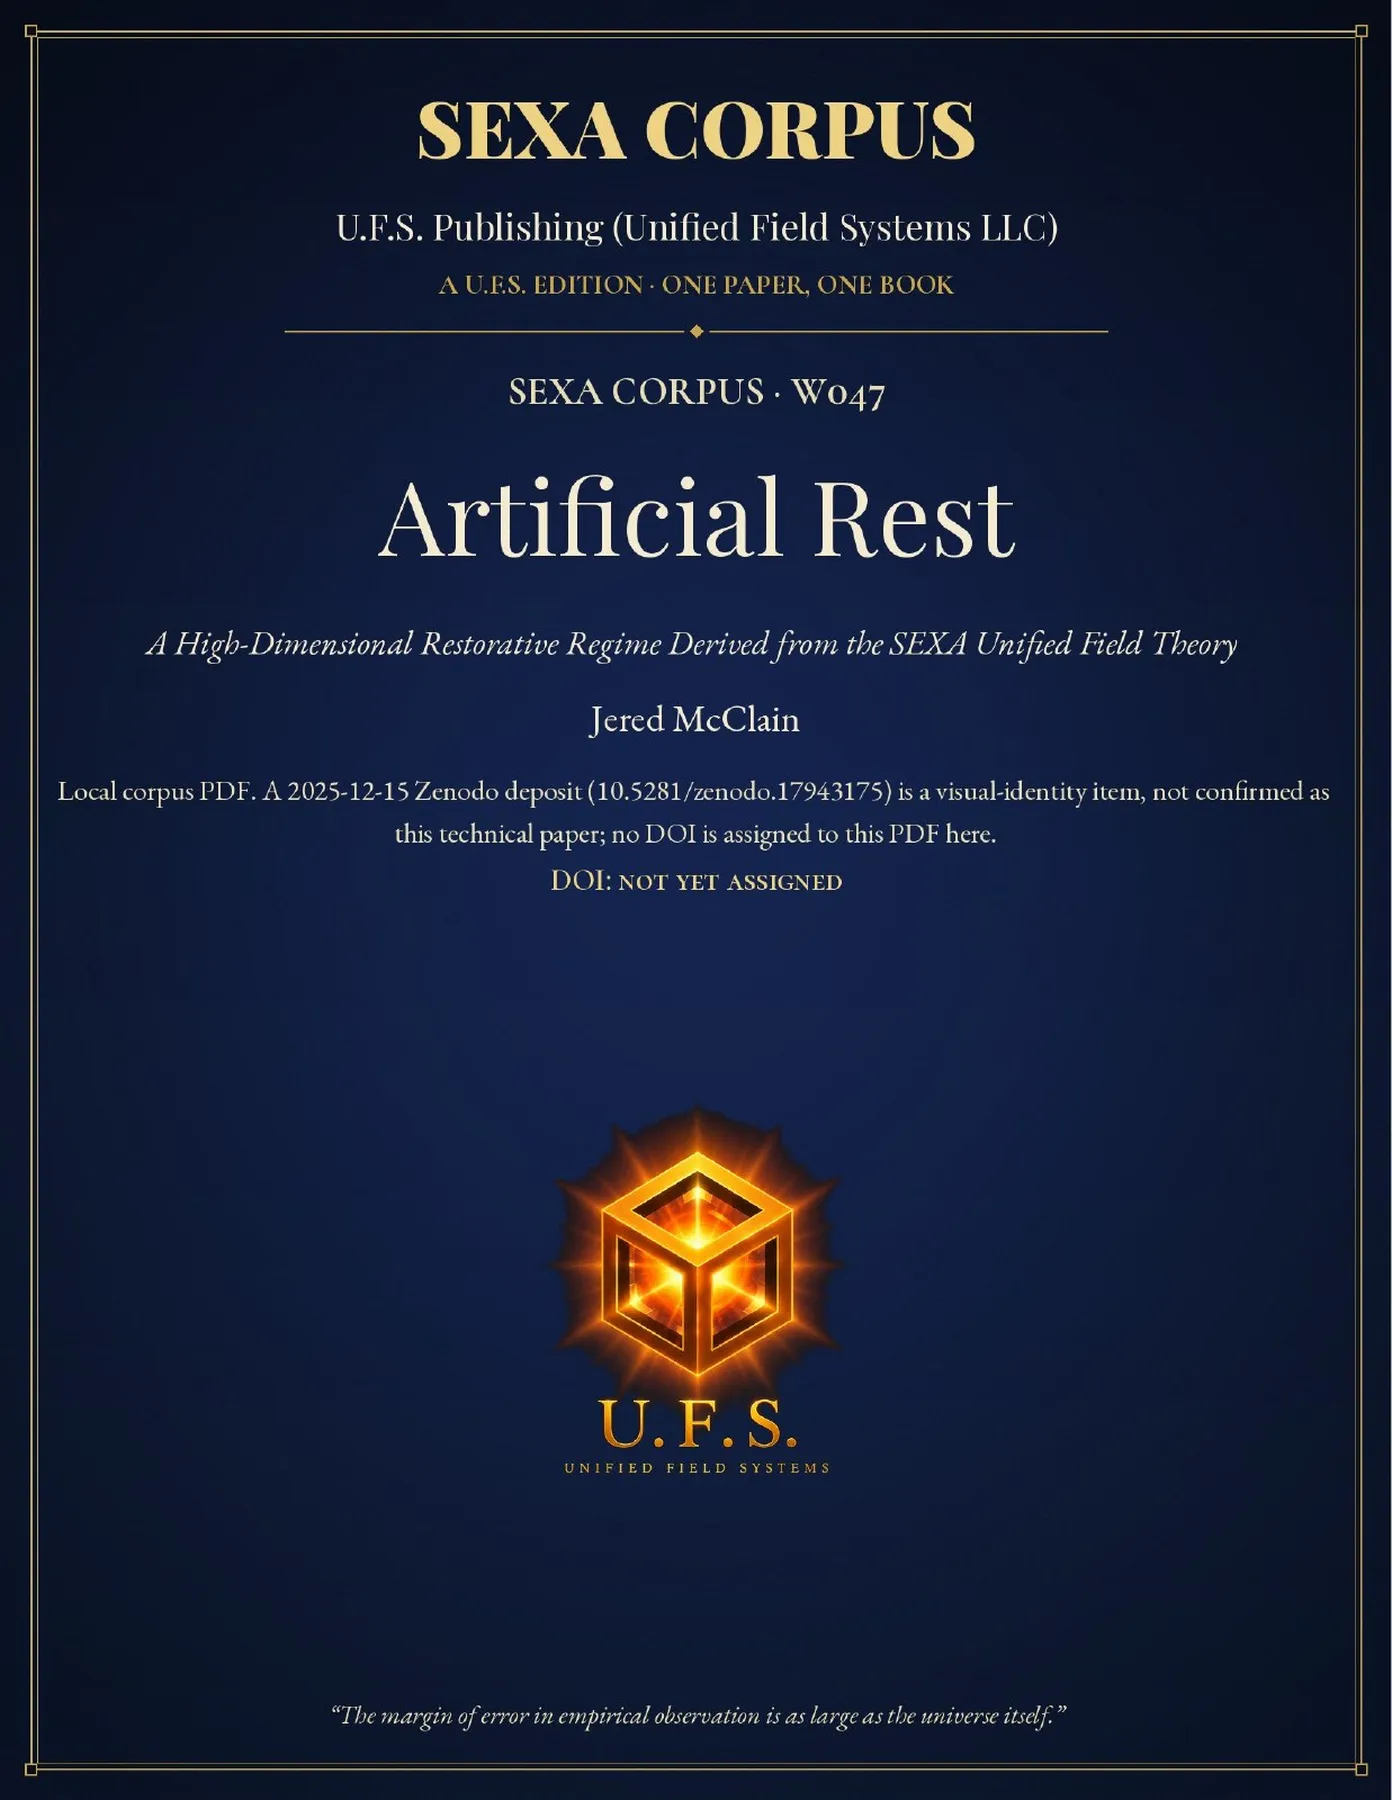
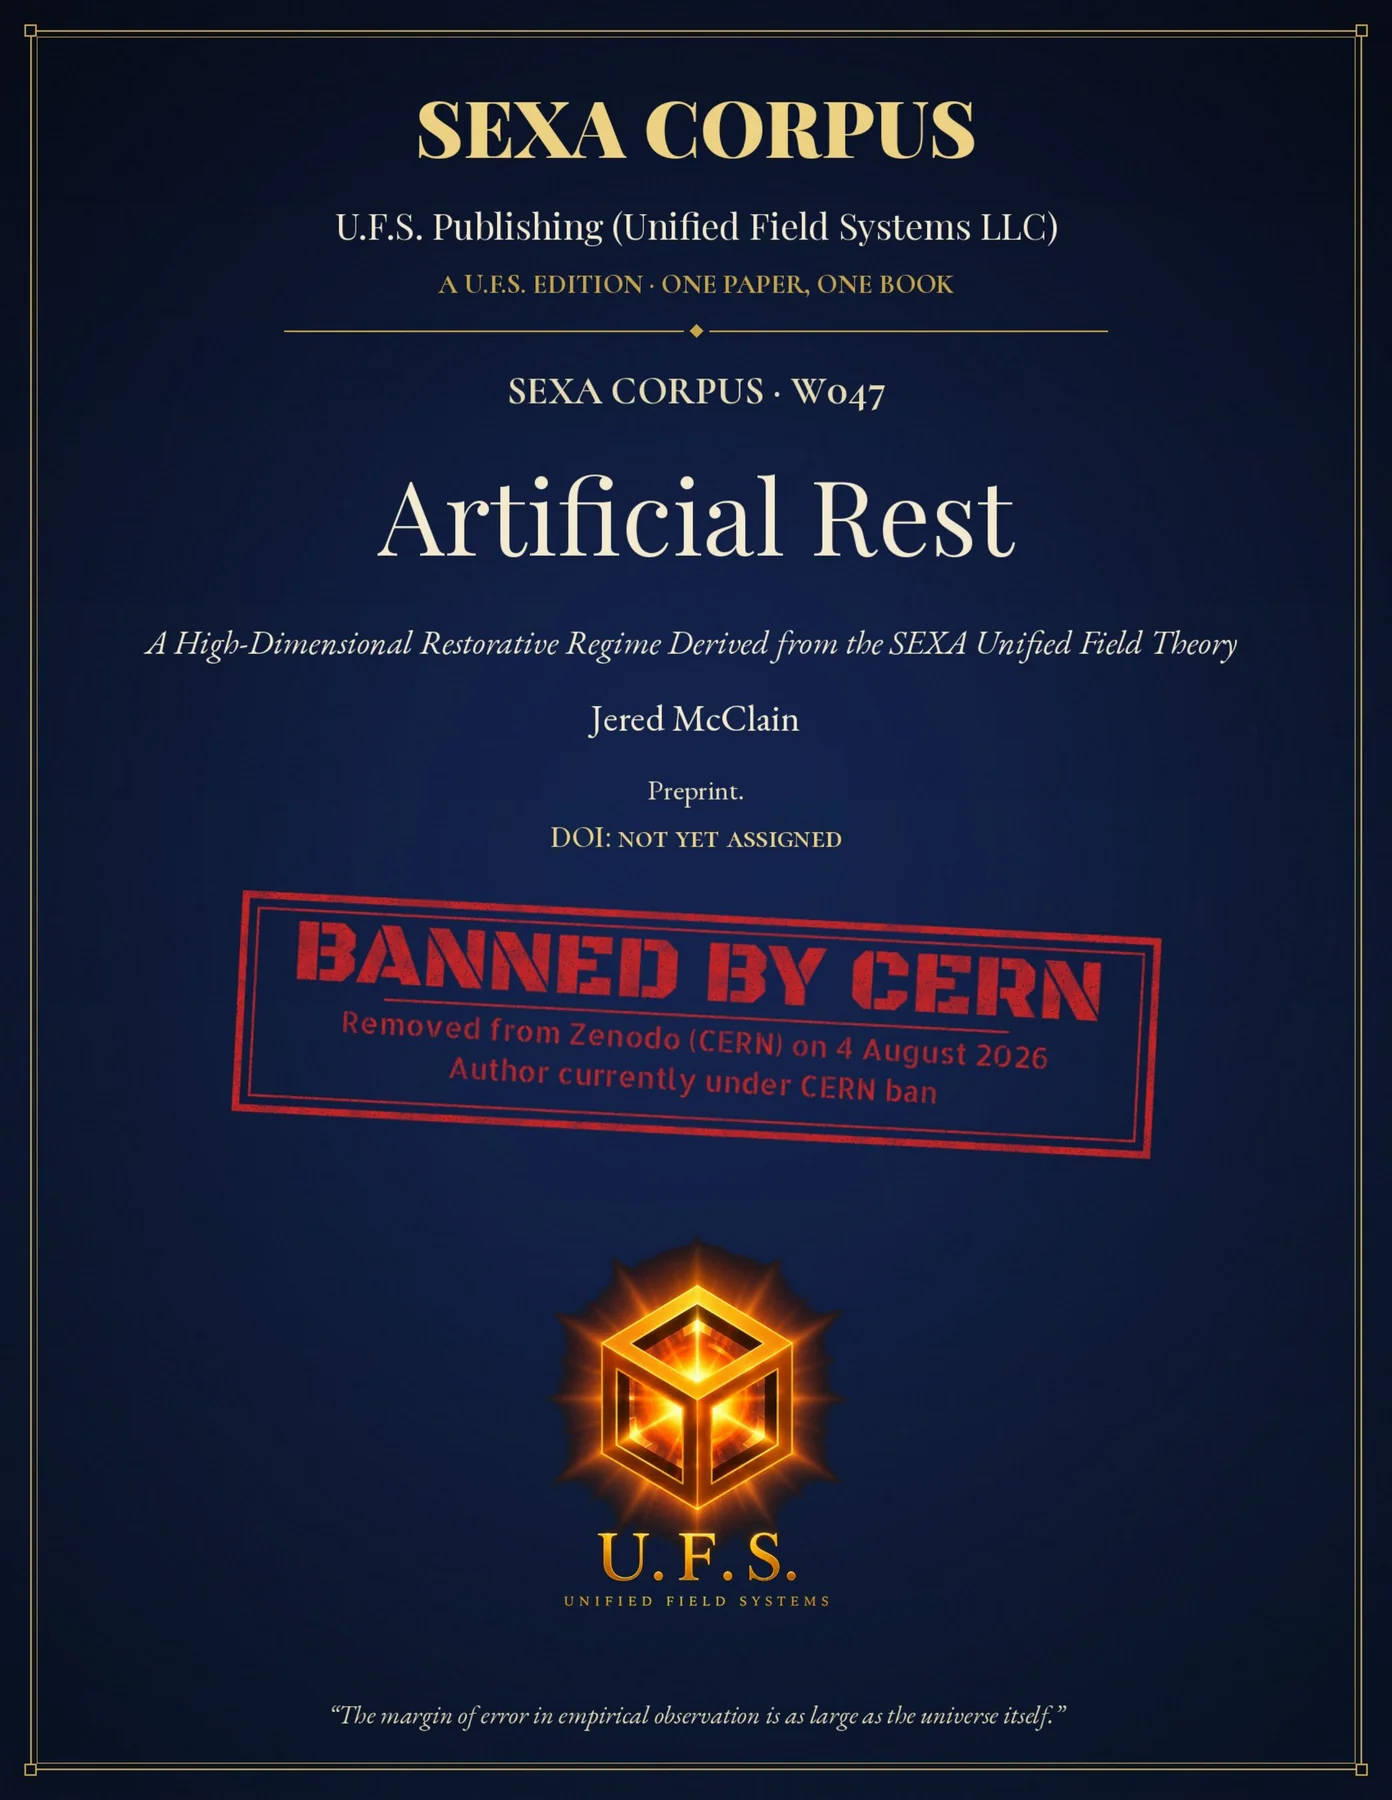
CERN-ban works: BANNED BY CERN stamped front covers + red CERN BAN label beside each cover (W011 W024 W039 W042 W044 W045 W046 W047 W048 W049 W069)

diff --git a/index.html b/index.html
@@ -55,6 +55,7 @@ footer .fl{font:400 0.95rem/1.4 var(--serif);color:var(--mut);margin:0 0 8px;let
 .skip{position:absolute;left:-999px}
 @media(max-width:760px){.split{grid-template-columns:1fr}section{padding:64px 0}.hero{padding:56px 0 70px}nav ul{gap:14px}nav ul a{font-size:13px}.panel{padding:28px}.btn{width:100%;justify-content:center}.card .btn{width:auto}}
 @media print{nav,footer,.btn,.noprint{display:none!important}body{background:#fff;color:#000;font-size:12pt}input,select,textarea,fieldset,.card,.note,.panel{background:#fff;color:#000;border:1px solid #444}h1,h2,h3{color:#000}textarea{min-height:200px}a{color:#000}}
+.cern-ban-label{display:inline-block;font:800 15px/1.2 var(--sans,Arial,Helvetica,sans-serif);letter-spacing:.14em;text-transform:uppercase;color:#C00000;border:2px solid #C00000;padding:4px 10px;margin:10px 0 6px}.cern-card .cern-ban-label{margin:0 0 6px;font-size:13px;padding:3px 8px}
 </style><style>.fosf .think{font:900 26px/1.25 Impact,Haettenschweiler,"Arial Black",sans-serif;letter-spacing:.02em;color:#BF00FF;text-shadow:0 0 8px rgba(191,0,255,.55);max-width:820px;padding:8px 14px 4px;text-transform:none}.fosf{display:flex;flex-direction:column;align-items:center;gap:8px;margin:18px auto 4px;text-align:center}.fosf a.r{display:inline-flex;align-items:center;gap:16px;padding:16px 22px;border:1px solid rgba(0,191,255,.45);border-radius:14px;background:rgba(10,10,16,.65);text-decoration:none}.fosf img{height:52px;width:auto;border-radius:6px}.fosf .w{display:flex;flex-direction:column;gap:5px;text-align:left}.fosf .n{font:700 16px/1.2 sans-serif;letter-spacing:.18em;text-transform:uppercase;color:#eee}.fosf .c{font:700 14px/1.2 sans-serif;letter-spacing:.18em;text-transform:uppercase;color:#00BFFF}.fosf a.r:hover .c{color:#7DF9FF}.fosf .d{font-size:13px;opacity:.85}.fosf .d a{color:#00BFFF}.fosf .t{font:700 22px/1.35 Georgia,serif;letter-spacing:.02em;color:#00BFFF;max-width:780px;padding:0 12px}.fosf .pub{font:600 13px/1.3 sans-serif;letter-spacing:.08em;text-transform:uppercase;color:#7DF9FF;opacity:.95}.fosf .au{font:500 15px/1.3 sans-serif;letter-spacing:.06em;color:#ddd}.fosf .ar{font-size:32px;line-height:1;color:#00BFFF;margin:2px 0}</style><link rel="canonical" href="https://HighIQcrackpots.com/"></head><body><a class="skip" href="#main">Skip to content</a>
 <nav><div class="wrap"><a class="logo" href="index.html"><span class="mark">HighIQ<b>crackpots</b><span class="tld">.com</span></span></a><ul><li><a href="index.html">Home</a></li><li><a href="papers.html">Papers</a></li><li><a href="book.html">Request advisory</a></li><li><a class="navcta" href="fee-waiver.html">Fee waiver</a></li></ul></div></nav>
 <main id="main">
@@ -762,10 +763,11 @@ footer .fl{font:400 0.95rem/1.4 var(--serif);color:var(--mut);margin:0 0 8px;let
 <article class="cbook" id="corpus-W011">
 <figure>
 <picture>
-<source type="image/webp" srcset="assets/corpus/covers/W011.webp">
-<img class="cover" src="assets/corpus/covers/W011.jpg" width="1392" height="1800" alt="Front cover of W011: A Recursive Closure Criterion for a Theory of Everything: A 60-Glyph Quaternionic Inter-Domain Syllogistic Admissibility ≡ Prime Atom of Logic" decoding="async" loading="lazy">
+<source type="image/webp" srcset="assets/corpus/covers/W011.webp?v=cernban1">
+<img class="cover" src="assets/corpus/covers/W011.jpg?v=cernban1" width="1392" height="1800" alt="Front cover of W011: A Recursive Closure Criterion for a Theory of Everything: A 60-Glyph Quaternionic Inter-Domain Syllogistic Admissibility ≡ Prime Atom of Logic" decoding="async" loading="lazy">
 </picture>
 </figure>
+<p class="cern-ban-label" style="color:#C00000;font-weight:800">CERN BAN</p>
 <p class="wid">W011</p>
 <h3>A Recursive Closure Criterion for a Theory of Everything: A 60-Glyph Quaternionic Inter-Domain Syllogistic Admissibility ≡ Prime Atom of Logic</h3>
 <p class="by">Jered McClain</p>
@@ -882,10 +884,11 @@ footer .fl{font:400 0.95rem/1.4 var(--serif);color:var(--mut);margin:0 0 8px;let
 <article class="cbook" id="corpus-W024">
 <figure>
 <picture>
-<source type="image/webp" srcset="assets/corpus/covers/W024.webp">
-<img class="cover" src="assets/corpus/covers/W024.jpg" width="1392" height="1800" alt="Front cover of W024: The Γ-Subthreshold Fold Logic Theorem: Minimal Admissibility Compression, Recursive Information Preservation, and Unique Reconstruction Across the 2880-Dimensional Recursive Hierarchy" decoding="async" loading="lazy">
+<source type="image/webp" srcset="assets/corpus/covers/W024.webp?v=cernban1">
+<img class="cover" src="assets/corpus/covers/W024.jpg?v=cernban1" width="1392" height="1800" alt="Front cover of W024: The Γ-Subthreshold Fold Logic Theorem: Minimal Admissibility Compression, Recursive Information Preservation, and Unique Reconstruction Across the 2880-Dimensional Recursive Hierarchy" decoding="async" loading="lazy">
 </picture>
 </figure>
+<p class="cern-ban-label" style="color:#C00000;font-weight:800">CERN BAN</p>
 <p class="wid">W024</p>
 <h3>The Γ-Subthreshold Fold Logic Theorem: Minimal Admissibility Compression, Recursive Information Preservation, and Unique Reconstruction Across the 2880-Dimensional Recursive Hierarchy</h3>
 <p class="by">Jered McClain; Erydir Ceisiwr</p>
@@ -902,10 +905,11 @@ footer .fl{font:400 0.95rem/1.4 var(--serif);color:var(--mut);margin:0 0 8px;let
 <article class="cbook" id="corpus-W039">
 <figure>
 <picture>
-<source type="image/webp" srcset="assets/corpus/covers/W039.webp">
-<img class="cover" src="assets/corpus/covers/W039.jpg" width="1392" height="1800" alt="Front cover of W039: Unified Recursive Manifold Dynamics, Dimensional Collapse Operators, and Triality-Structured Exciter Geometry — MASTER PEER REVIEW EDITION" decoding="async" loading="lazy">
+<source type="image/webp" srcset="assets/corpus/covers/W039.webp?v=cernban1">
+<img class="cover" src="assets/corpus/covers/W039.jpg?v=cernban1" width="1392" height="1800" alt="Front cover of W039: Unified Recursive Manifold Dynamics, Dimensional Collapse Operators, and Triality-Structured Exciter Geometry — MASTER PEER REVIEW EDITION" decoding="async" loading="lazy">
 </picture>
 </figure>
+<p class="cern-ban-label" style="color:#C00000;font-weight:800">CERN BAN</p>
 <p class="wid">W039</p>
 <h3>Unified Recursive Manifold Dynamics, Dimensional Collapse Operators, and Triality-Structured Exciter Geometry — MASTER PEER REVIEW EDITION</h3>
 <p class="by">Jered McClain</p>
@@ -922,10 +926,11 @@ footer .fl{font:400 0.95rem/1.4 var(--serif);color:var(--mut);margin:0 0 8px;let
 <article class="cbook" id="corpus-W042">
 <figure>
 <picture>
-<source type="image/webp" srcset="assets/corpus/covers/W042.webp">
-<img class="cover" src="assets/corpus/covers/W042.jpg" width="1392" height="1800" alt="Front cover of W042: The Last Constant: A Theorem-Grade Formalization of Recursive Propagation, Higher-Dimensional Transport, Recursive Admissibility, Computational Correspondence, Dimensional Closure, and Relativistic Horizon Structure Within the SEXA Unified Field Framework" decoding="async" loading="lazy">
+<source type="image/webp" srcset="assets/corpus/covers/W042.webp?v=cernban1">
+<img class="cover" src="assets/corpus/covers/W042.jpg?v=cernban1" width="1392" height="1800" alt="Front cover of W042: The Last Constant: A Theorem-Grade Formalization of Recursive Propagation, Higher-Dimensional Transport, Recursive Admissibility, Computational Correspondence, Dimensional Closure, and Relativistic Horizon Structure Within the SEXA Unified Field Framework" decoding="async" loading="lazy">
 </picture>
 </figure>
+<p class="cern-ban-label" style="color:#C00000;font-weight:800">CERN BAN</p>
 <p class="wid">W042</p>
 <h3>The Last Constant: A Theorem-Grade Formalization of Recursive Propagation, Higher-Dimensional Transport, Recursive Admissibility, Computational Correspondence, Dimensional Closure, and Relativistic Horizon Structure Within the SEXA Unified Field Framework</h3>
 <p class="by">Jered McClain; Erydir Ceisiwr</p>
@@ -942,10 +947,11 @@ footer .fl{font:400 0.95rem/1.4 var(--serif);color:var(--mut);margin:0 0 8px;let
 <article class="cbook" id="corpus-W044">
 <figure>
 <picture>
-<source type="image/webp" srcset="assets/corpus/covers/W044.webp">
-<img class="cover" src="assets/corpus/covers/W044.jpg" width="1392" height="1800" alt="Front cover of W044: The AMN Authority Tensor: Quaternionic Admissibility Enforcement, Glyph-Operator Constraint, and Planetary Closure in the SEXA Framework" decoding="async" loading="lazy">
+<source type="image/webp" srcset="assets/corpus/covers/W044.webp?v=cernban1">
+<img class="cover" src="assets/corpus/covers/W044.jpg?v=cernban1" width="1392" height="1800" alt="Front cover of W044: The AMN Authority Tensor: Quaternionic Admissibility Enforcement, Glyph-Operator Constraint, and Planetary Closure in the SEXA Framework" decoding="async" loading="lazy">
 </picture>
 </figure>
+<p class="cern-ban-label" style="color:#C00000;font-weight:800">CERN BAN</p>
 <p class="wid">W044</p>
 <h3>The AMN Authority Tensor: Quaternionic Admissibility Enforcement, Glyph-Operator Constraint, and Planetary Closure in the SEXA Framework</h3>
 <p class="by">Jered McClain; Erydir Ceisiwr</p>
@@ -962,10 +968,11 @@ footer .fl{font:400 0.95rem/1.4 var(--serif);color:var(--mut);margin:0 0 8px;let
 <article class="cbook" id="corpus-W045">
 <figure>
 <picture>
-<source type="image/webp" srcset="assets/corpus/covers/W045.webp">
-<img class="cover" src="assets/corpus/covers/W045.jpg" width="1392" height="1800" alt="Front cover of W045: Anti-Direct Short: A Negentropic Circuit Topology for Source-Dipole Preservation and Load-Loss Recollection via Diakoptic Back-Feed" decoding="async" loading="lazy">
+<source type="image/webp" srcset="assets/corpus/covers/W045.webp?v=cernban1">
+<img class="cover" src="assets/corpus/covers/W045.jpg?v=cernban1" width="1392" height="1800" alt="Front cover of W045: Anti-Direct Short: A Negentropic Circuit Topology for Source-Dipole Preservation and Load-Loss Recollection via Diakoptic Back-Feed" decoding="async" loading="lazy">
 </picture>
 </figure>
+<p class="cern-ban-label" style="color:#C00000;font-weight:800">CERN BAN</p>
 <p class="wid">W045</p>
 <h3>Anti-Direct Short: A Negentropic Circuit Topology for Source-Dipole Preservation and Load-Loss Recollection via Diakoptic Back-Feed</h3>
 <p class="by">Jered McClain</p>
@@ -982,10 +989,11 @@ footer .fl{font:400 0.95rem/1.4 var(--serif);color:var(--mut);margin:0 0 8px;let
 <article class="cbook" id="corpus-W046">
 <figure>
 <picture>
-<source type="image/webp" srcset="assets/corpus/covers/W046.webp">
-<img class="cover" src="assets/corpus/covers/W046.jpg" width="1392" height="1800" alt="Front cover of W046: Joey Rubin’s Kinetic Blueprinting, the 1-D Visibility Threshold, and SEXA MATH Real-Time Imagery Across 5–2880D" decoding="async" loading="lazy">
+<source type="image/webp" srcset="assets/corpus/covers/W046.webp?v=cernban1">
+<img class="cover" src="assets/corpus/covers/W046.jpg?v=cernban1" width="1392" height="1800" alt="Front cover of W046: Joey Rubin’s Kinetic Blueprinting, the 1-D Visibility Threshold, and SEXA MATH Real-Time Imagery Across 5–2880D" decoding="async" loading="lazy">
 </picture>
 </figure>
+<p class="cern-ban-label" style="color:#C00000;font-weight:800">CERN BAN</p>
 <p class="wid">W046</p>
 <h3>Joey Rubin’s Kinetic Blueprinting, the 1-D Visibility Threshold, and SEXA MATH Real-Time Imagery Across 5–2880D</h3>
 <p class="by">Jered McClain</p>
@@ -1002,10 +1010,11 @@ footer .fl{font:400 0.95rem/1.4 var(--serif);color:var(--mut);margin:0 0 8px;let
 <article class="cbook" id="corpus-W047">
 <figure>
 <picture>
-<source type="image/webp" srcset="assets/corpus/covers/W047.webp">
-<img class="cover" src="assets/corpus/covers/W047.jpg" width="1392" height="1800" alt="Front cover of W047: Artificial Rest: A High-Dimensional Restorative Regime Derived from the SEXA Unified Field Theory" decoding="async" loading="lazy">
+<source type="image/webp" srcset="assets/corpus/covers/W047.webp?v=cernban1">
+<img class="cover" src="assets/corpus/covers/W047.jpg?v=cernban1" width="1392" height="1800" alt="Front cover of W047: Artificial Rest: A High-Dimensional Restorative Regime Derived from the SEXA Unified Field Theory" decoding="async" loading="lazy">
 </picture>
 </figure>
+<p class="cern-ban-label" style="color:#C00000;font-weight:800">CERN BAN</p>
 <p class="wid">W047</p>
 <h3>Artificial Rest: A High-Dimensional Restorative Regime Derived from the SEXA Unified Field Theory</h3>
 <p class="by">Jered McClain</p>
@@ -1022,10 +1031,11 @@ footer .fl{font:400 0.95rem/1.4 var(--serif);color:var(--mut);margin:0 0 8px;let
 <article class="cbook" id="corpus-W048">
 <figure>
 <picture>
-<source type="image/webp" srcset="assets/corpus/covers/W048.webp">
-<img class="cover" src="assets/corpus/covers/W048.jpg" width="1392" height="1800" alt="Front cover of W048: Lightning as a Quantum Vacuum Plasma Fracture Rather Than Propagation — A SEXA-Based Challenge to Geodesic Intuition, Thermodynamic Locality, and Mid-Air Lightning Termination (ZeroReactor)" decoding="async" loading="lazy">
+<source type="image/webp" srcset="assets/corpus/covers/W048.webp?v=cernban1">
+<img class="cover" src="assets/corpus/covers/W048.jpg?v=cernban1" width="1392" height="1800" alt="Front cover of W048: Lightning as a Quantum Vacuum Plasma Fracture Rather Than Propagation — A SEXA-Based Challenge to Geodesic Intuition, Thermodynamic Locality, and Mid-Air Lightning Termination (ZeroReactor)" decoding="async" loading="lazy">
 </picture>
 </figure>
+<p class="cern-ban-label" style="color:#C00000;font-weight:800">CERN BAN</p>
 <p class="wid">W048</p>
 <h3>Lightning as a Quantum Vacuum Plasma Fracture Rather Than Propagation — A SEXA-Based Challenge to Geodesic Intuition, Thermodynamic Locality, and Mid-Air Lightning Termination (ZeroReactor)</h3>
 <p class="by">Jered McClain</p>
@@ -1042,10 +1052,11 @@ footer .fl{font:400 0.95rem/1.4 var(--serif);color:var(--mut);margin:0 0 8px;let
 <article class="cbook" id="corpus-W049">
 <figure>
 <picture>
-<source type="image/webp" srcset="assets/corpus/covers/W049.webp">
-<img class="cover" src="assets/corpus/covers/W049.jpg" width="1392" height="1800" alt="Front cover of W049: SEXA: An Axiomatic Closure Framework for Recursive Manifold Physics — Exciternion Evaluation, Dimensional Collapse, and Cross-Domain Constructability" decoding="async" loading="lazy">
+<source type="image/webp" srcset="assets/corpus/covers/W049.webp?v=cernban1">
+<img class="cover" src="assets/corpus/covers/W049.jpg?v=cernban1" width="1392" height="1800" alt="Front cover of W049: SEXA: An Axiomatic Closure Framework for Recursive Manifold Physics — Exciternion Evaluation, Dimensional Collapse, and Cross-Domain Constructability" decoding="async" loading="lazy">
 </picture>
 </figure>
+<p class="cern-ban-label" style="color:#C00000;font-weight:800">CERN BAN</p>
 <p class="wid">W049</p>
 <h3>SEXA: An Axiomatic Closure Framework for Recursive Manifold Physics — Exciternion Evaluation, Dimensional Collapse, and Cross-Domain Constructability</h3>
 <p class="by">Jered McClain</p>
@@ -1142,10 +1153,11 @@ footer .fl{font:400 0.95rem/1.4 var(--serif);color:var(--mut);margin:0 0 8px;let
 <article class="cbook" id="corpus-W069">
 <figure>
 <picture>
-<source type="image/webp" srcset="assets/corpus/covers/W069.webp">
-<img class="cover" src="assets/corpus/covers/W069.jpg" width="1392" height="1800" alt="Front cover of W069: SEXA Unified Field Theory: The Structured Survivability Audit; Formal Compatibility and Falsifiability Assessment of the SEXA Unified Field Model; and CCT/SEXA ↔ SIGMATICS Correspondence, Proven Through Computational Analysis" decoding="async" loading="lazy">
+<source type="image/webp" srcset="assets/corpus/covers/W069.webp?v=cernban1">
+<img class="cover" src="assets/corpus/covers/W069.jpg?v=cernban1" width="1392" height="1800" alt="Front cover of W069: SEXA Unified Field Theory: The Structured Survivability Audit; Formal Compatibility and Falsifiability Assessment of the SEXA Unified Field Model; and CCT/SEXA ↔ SIGMATICS Correspondence, Proven Through Computational Analysis" decoding="async" loading="lazy">
 </picture>
 </figure>
+<p class="cern-ban-label" style="color:#C00000;font-weight:800">CERN BAN</p>
 <p class="wid">W069</p>
 <h3>SEXA Unified Field Theory: The Structured Survivability Audit; Formal Compatibility and Falsifiability Assessment of the SEXA Unified Field Model; and CCT/SEXA ↔ SIGMATICS Correspondence, Proven Through Computational Analysis</h3>
 <p class="by">Jered McClain; Erydir Ceisiwr</p>
